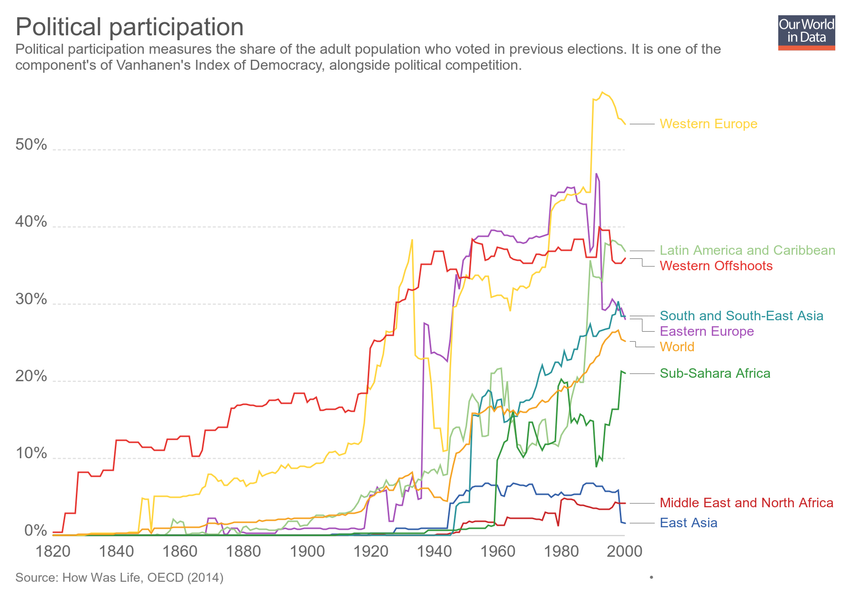
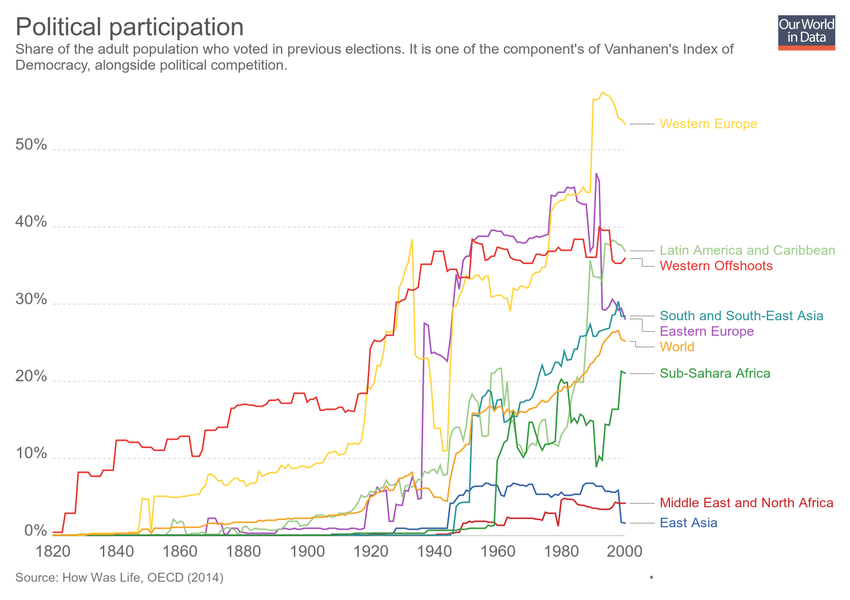
Updating chart political-participation-iod

Changed region(s): [[0.0, 0.06, 0.8565, 0.12]]

diff --git a/grapher/rate-of-internationally-observed-elections.html b/grapher/rate-of-internationally-observed-elections.html
@@ -1,4 +1,4 @@
-<!doctype html><html><head><meta name="viewport" content="width=device-width, initial-scale=1" /><title>Internationally observed elections (%) - Our World in Data</title><meta name="description" content="Percentage of internationally observed elections and whether they were criticized by international observers. Figures cover 1,754 election events in 157 independent states, excluding those with population less than 250,000." /><link rel="canonical" href="https://ourworldindata.org/grapher/rate-of-internationally-observed-elections" /><meta property="fb:app_id" content="1149943818390250" /><meta property="og:url" content="https://ourworldindata.org/grapher/rate-of-internationally-observed-elections" /><meta property="og:title" content="Internationally observed elections (%)" /><meta property="og:description" content="Percentage of internationally observed elections and whether they were criticized by international observers. Figures cover 1,754 election events in 157 independent states, excluding those with population less than 250,000." /><meta property="og:image" content="https://ourworldindata.org/grapher/exports/rate-of-internationally-observed-elections.png?v=16" /><meta property="og:image:width" content="850" /><meta property="og:image:height" content="600" /><meta property="og:site_name" content="Our World in Data" /><meta name="twitter:card" content="summary_large_image" /><meta name="twitter:site" content="@OurWorldInData" /><meta name="twitter:creator" content="@OurWorldInData" /><meta name="twitter:title" content="Internationally observed elections (%)" /><meta name="twitter:description" content="Percentage of internationally observed elections and whether they were criticized by international observers. Figures cover 1,754 election events in 157 independent states, excluding those with population less than 250,000." /><meta name="twitter:image" content="https://ourworldindata.org/grapher/exports/rate-of-internationally-observed-elections.png?v=16" /><style>
+<!doctype html><html><head><meta name="viewport" content="width=device-width, initial-scale=1" /><title>Internationally observed elections by Western monitors - Our World in Data</title><meta name="description" content="Estimates correspond to the number of international elections that were either observed and criticized by Western monitors, observed and not criticized by Western monitors, or elections that were not observed by Western monitors. Criticism refers to allegations of significant vote-fraud." /><link rel="canonical" href="https://ourworldindata.org/grapher/rate-of-internationally-observed-elections" /><meta property="fb:app_id" content="1149943818390250" /><meta property="og:url" content="https://ourworldindata.org/grapher/rate-of-internationally-observed-elections" /><meta property="og:title" content="Internationally observed elections by Western monitors" /><meta property="og:description" content="Estimates correspond to the number of international elections that were either observed and criticized by Western monitors, observed and not criticized by Western monitors, or elections that were not observed by Western monitors. Criticism refers to allegations of significant vote-fraud." /><meta property="og:image" content="https://ourworldindata.org/grapher/exports/rate-of-internationally-observed-elections.png?v=9" /><meta property="og:image:width" content="850" /><meta property="og:image:height" content="600" /><meta property="og:site_name" content="Our World in Data" /><meta name="twitter:card" content="summary_large_image" /><meta name="twitter:site" content="@OurWorldInData" /><meta name="twitter:creator" content="@OurWorldInData" /><meta name="twitter:title" content="Internationally observed elections by Western monitors" /><meta name="twitter:description" content="Estimates correspond to the number of international elections that were either observed and criticized by Western monitors, observed and not criticized by Western monitors, or elections that were not observed by Western monitors. Criticism refers to allegations of significant vote-fraud." /><meta name="twitter:image" content="https://ourworldindata.org/grapher/exports/rate-of-internationally-observed-elections.png?v=9" /><style>
         html, body {
             height: 100%;
             margin: 0;
@@ -20,8 +20,8 @@
         }
     </style><noscript><style>
                     figure { display: none !important; }
-                </style></noscript><link rel="stylesheet" href="https://ourworldindata.org/grapher/assets/commons.bundle.ac09ff8f098f0c7be836.css" /><link rel="preload" href="/grapher/data/variables/97378+97379.json?v=16" as="fetch" crossorigin /></head><body class="singleChart"><figure data-grapher-src="/grapher/rate-of-internationally-observed-elections"></figure><noscript id="fallback"><img src="/grapher/exports/rate-of-internationally-observed-elections.svg" /><p>Interactive visualization requires JavaScript</p></noscript><script src="https://cdn.polyfill.io/v2/polyfill.min.js?features=es6,fetch"></script><script src="https://ourworldindata.org/grapher/assets/commons.bundle.ac09ff8f098f0c7be836.js"></script><script src="https://ourworldindata.org/grapher/assets/charts.bundle.dcf65b68eddaba4c6a58.js"></script><script>
-        var jsonConfig = {"id":2589,"map":{"projection":"World","colorSchemeLabels":[],"colorSchemeValues":[],"colorSchemeMinValue":0,"customNumericColors":[],"customCategoryColors":{},"customCategoryLabels":{},"customHiddenCategories":{}},"tab":"chart","slug":"rate-of-internationally-observed-elections","type":"StackedArea","title":"Internationally observed elections (%)","xAxis":{"scaleType":"linear"},"yAxis":{"max":80,"min":0,"scaleType":"linear"},"version":16,"subtitle":"Percentage of internationally observed elections and whether they were criticized by international observers. Figures cover 1,754 election events in 157 independent states, excluding those with population less than 250,000.","hasMapTab":false,"stackMode":"absolute","dimensions":[{"display":{"name":"Percent of elections observed and criticised","unit":"%"},"property":"y","variableId":97378},{"display":{"name":"Percent of elections observed and not criticised"},"property":"y","variableId":97379}],"hasChartTab":true,"isPublished":true,"selectedData":[{"index":0,"entityId":355},{"index":1,"entityId":355}],"addCountryMode":"change-country","baseColorScheme":"Plasma","hideRelativeToggle":true,"hideTitleAnnotation":true};
+                </style></noscript><link rel="stylesheet" href="https://ourworldindata.org/grapher/assets/commons.bundle.ac09ff8f098f0c7be836.css" /><link rel="preload" href="/grapher/data/variables/97399+97400+97401.json?v=9" as="fetch" crossorigin /></head><body class="singleChart"><figure data-grapher-src="/grapher/rate-of-internationally-observed-elections"></figure><noscript id="fallback"><img src="/grapher/exports/rate-of-internationally-observed-elections.svg" /><p>Interactive visualization requires JavaScript</p></noscript><script src="https://cdn.polyfill.io/v2/polyfill.min.js?features=es6,fetch"></script><script src="https://ourworldindata.org/grapher/assets/commons.bundle.ac09ff8f098f0c7be836.js"></script><script src="https://ourworldindata.org/grapher/assets/charts.bundle.dcf65b68eddaba4c6a58.js"></script><script>
+        var jsonConfig = {"id":2598,"map":{"projection":"World","colorSchemeLabels":[],"colorSchemeValues":[],"customNumericColors":[],"customCategoryColors":{},"customCategoryLabels":{},"customHiddenCategories":{}},"tab":"chart","note":"Includes 2435 election events in 162 countries","slug":"rate-of-internationally-observed-elections","type":"StackedArea","title":"Internationally observed elections by Western monitors","xAxis":{"scaleType":"linear"},"yAxis":{"min":0,"scaleType":"linear"},"version":9,"subtitle":"Estimates correspond to the number of international elections that were either observed and criticized by Western monitors, observed and not criticized by Western monitors, or elections that were not observed by Western monitors. Criticism refers to allegations of significant vote-fraud.","hasMapTab":false,"stackMode":"relative","dimensions":[{"display":{"name":"Elections not observed","unit":"elections","shortUnit":""},"property":"y","variableId":97399},{"display":{"name":"Elections observed and criticized"},"property":"y","variableId":97400},{"display":{"name":"Elections observed and not critcized"},"property":"y","variableId":97401}],"hasChartTab":true,"isPublished":true,"selectedData":[{"index":0,"entityId":355},{"index":2,"entityId":355},{"index":1,"entityId":355}],"addCountryMode":"change-country","baseColorScheme":"owid-distinct","invertColorScheme":true,"hideTitleAnnotation":true};
         var figure = document.getElementsByTagName("figure")[0];
         try {
             window.App = {};

diff --git a/grapher/political-participation-iod.html b/grapher/political-participation-iod.html
@@ -1,4 +1,4 @@
-<!doctype html><html><head><meta name="viewport" content="width=device-width, initial-scale=1" /><title>Political participation - Our World in Data</title><meta name="description" content="Political participation measures the share of the adult population who voted in previous elections.  It is one of the component's of Vanhanen's Index of Democracy, alongside political competition." /><link rel="canonical" href="https://ourworldindata.org/grapher/political-participation-iod" /><meta property="fb:app_id" content="1149943818390250" /><meta property="og:url" content="https://ourworldindata.org/grapher/political-participation-iod" /><meta property="og:title" content="Political participation" /><meta property="og:description" content="Political participation measures the share of the adult population who voted in previous elections.  It is one of the component's of Vanhanen's Index of Democracy, alongside political competition." /><meta property="og:image" content="https://ourworldindata.org/grapher/exports/political-participation-iod.png?v=2" /><meta property="og:image:width" content="850" /><meta property="og:image:height" content="600" /><meta property="og:site_name" content="Our World in Data" /><meta name="twitter:card" content="summary_large_image" /><meta name="twitter:site" content="@OurWorldInData" /><meta name="twitter:creator" content="@OurWorldInData" /><meta name="twitter:title" content="Political participation" /><meta name="twitter:description" content="Political participation measures the share of the adult population who voted in previous elections.  It is one of the component's of Vanhanen's Index of Democracy, alongside political competition." /><meta name="twitter:image" content="https://ourworldindata.org/grapher/exports/political-participation-iod.png?v=2" /><style>
+<!doctype html><html><head><meta name="viewport" content="width=device-width, initial-scale=1" /><title>Political participation - Our World in Data</title><meta name="description" content="Share of the adult population who voted in previous elections.  It is one of the component's of Vanhanen's Index of Democracy, alongside political competition." /><link rel="canonical" href="https://ourworldindata.org/grapher/political-participation-iod" /><meta property="fb:app_id" content="1149943818390250" /><meta property="og:url" content="https://ourworldindata.org/grapher/political-participation-iod" /><meta property="og:title" content="Political participation" /><meta property="og:description" content="Share of the adult population who voted in previous elections.  It is one of the component's of Vanhanen's Index of Democracy, alongside political competition." /><meta property="og:image" content="https://ourworldindata.org/grapher/exports/political-participation-iod.png?v=3" /><meta property="og:image:width" content="850" /><meta property="og:image:height" content="600" /><meta property="og:site_name" content="Our World in Data" /><meta name="twitter:card" content="summary_large_image" /><meta name="twitter:site" content="@OurWorldInData" /><meta name="twitter:creator" content="@OurWorldInData" /><meta name="twitter:title" content="Political participation" /><meta name="twitter:description" content="Share of the adult population who voted in previous elections.  It is one of the component's of Vanhanen's Index of Democracy, alongside political competition." /><meta name="twitter:image" content="https://ourworldindata.org/grapher/exports/political-participation-iod.png?v=3" /><style>
         html, body {
             height: 100%;
             margin: 0;
@@ -20,8 +20,8 @@
         }
     </style><noscript><style>
                     figure { display: none !important; }
-                </style></noscript><link rel="stylesheet" href="https://ourworldindata.org/grapher/assets/commons.bundle.ac09ff8f098f0c7be836.css" /><link rel="preload" href="/grapher/data/variables/85932.json?v=2" as="fetch" crossorigin /></head><body class="singleChart"><figure data-grapher-src="/grapher/political-participation-iod"></figure><noscript id="fallback"><img src="/grapher/exports/political-participation-iod.svg" /><p>Interactive visualization requires JavaScript</p></noscript><script src="https://cdn.polyfill.io/v2/polyfill.min.js?features=es6,fetch"></script><script src="https://ourworldindata.org/grapher/assets/commons.bundle.ac09ff8f098f0c7be836.js"></script><script src="https://ourworldindata.org/grapher/assets/charts.bundle.dcf65b68eddaba4c6a58.js"></script><script>
-        var jsonConfig = {"id":2340,"map":{"projection":"World","colorSchemeLabels":[],"colorSchemeValues":[],"colorSchemeMinValue":0,"customNumericColors":[],"customCategoryColors":{},"customCategoryLabels":{},"customHiddenCategories":{}},"tab":"chart","slug":"political-participation-iod","type":"LineChart","title":"Political participation","xAxis":{"scaleType":"linear"},"yAxis":{"min":0,"scaleType":"linear"},"version":2,"subtitle":"Political participation measures the share of the adult population who voted in previous elections.  It is one of the component's of Vanhanen's Index of Democracy, alongside political competition.","hasMapTab":false,"stackMode":"absolute","dimensions":[{"display":{},"property":"y","variableId":85932}],"hasChartTab":true,"isPublished":true,"selectedData":[{"index":0,"entityId":34613},{"index":0,"entityId":473},{"index":0,"entityId":34620},{"index":0,"entityId":301},{"index":0,"entityId":36553},{"index":0,"entityId":36554},{"index":0,"entityId":476},{"index":0,"entityId":36437},{"index":0,"entityId":355}],"addCountryMode":"add-country"};
+                </style></noscript><link rel="stylesheet" href="https://ourworldindata.org/grapher/assets/commons.bundle.ac09ff8f098f0c7be836.css" /><link rel="preload" href="/grapher/data/variables/85932.json?v=3" as="fetch" crossorigin /></head><body class="singleChart"><figure data-grapher-src="/grapher/political-participation-iod"></figure><noscript id="fallback"><img src="/grapher/exports/political-participation-iod.svg" /><p>Interactive visualization requires JavaScript</p></noscript><script src="https://cdn.polyfill.io/v2/polyfill.min.js?features=es6,fetch"></script><script src="https://ourworldindata.org/grapher/assets/commons.bundle.ac09ff8f098f0c7be836.js"></script><script src="https://ourworldindata.org/grapher/assets/charts.bundle.dcf65b68eddaba4c6a58.js"></script><script>
+        var jsonConfig = {"id":2340,"map":{"projection":"World","colorSchemeLabels":[],"colorSchemeValues":[],"colorSchemeMinValue":0,"customNumericColors":[],"customCategoryColors":{},"customCategoryLabels":{},"customHiddenCategories":{}},"tab":"chart","slug":"political-participation-iod","type":"LineChart","title":"Political participation","xAxis":{"scaleType":"linear"},"yAxis":{"min":0,"scaleType":"linear"},"version":3,"subtitle":"Share of the adult population who voted in previous elections.  It is one of the component's of Vanhanen's Index of Democracy, alongside political competition.","hasMapTab":false,"stackMode":"absolute","dimensions":[{"display":{},"property":"y","variableId":85932}],"hasChartTab":true,"isPublished":true,"selectedData":[{"index":0,"entityId":34613},{"index":0,"entityId":473},{"index":0,"entityId":34620},{"index":0,"entityId":301},{"index":0,"entityId":36553},{"index":0,"entityId":36554},{"index":0,"entityId":476},{"index":0,"entityId":36437},{"index":0,"entityId":355}],"addCountryMode":"add-country"};
         var figure = document.getElementsByTagName("figure")[0];
         try {
             window.App = {};
